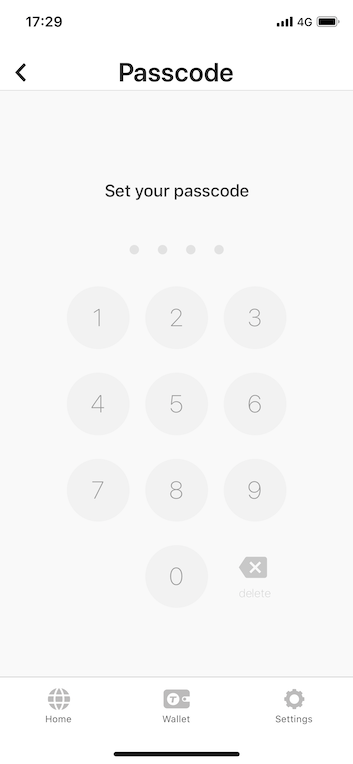
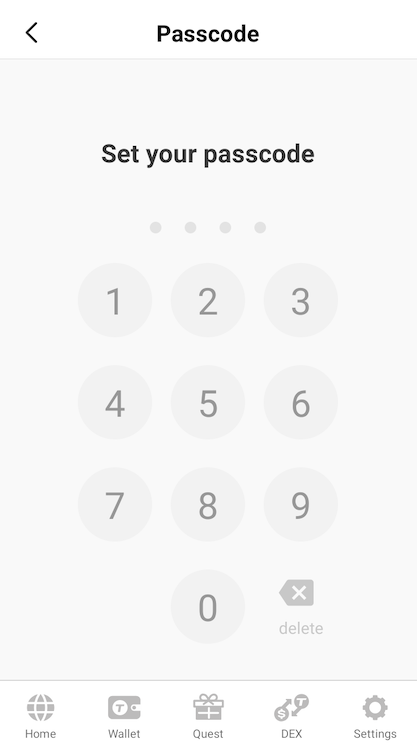
Update all ThunderCore Hub Photos on the Tutorials and also Upload Quest Tutorial

diff --git a/docs-en/get-wallet.md b/docs-en/get-wallet.md
@@ -22,11 +22,15 @@ Check out [ThunderCore Hub](https://www.thundercore.com/thundercore-hub/) on Thu
 
 2. Then you will see the Home tab. You can enter the DApp or website URL in the search bar.
 
-![alt-text](assets/img/new_hub_en/hubbit_en.PNG)
+![alt-text](assets/img/new_hub_en/hubbit_en.jpg)
 
-3. Click the Wallet tab, then you will see the Wallet page. This page will display the balance of your Thunder Token (TT) or TT20 tokens and all the transactions you make. Also, you can `Send` or `Receive` your TT  and `buy TT` via this page.
+3. Click the Wallet tab, then you will see the Wallet page. This page will display the balance of your Thunder Token (TT) or TT20 tokens and all the transactions you make. 
 
-![alt-text](assets/img/new_hub_en/wallet_en.jpg)
+![alt-text](assets/img/new_hub_en/hubbit_wallet_en.jpg)
+
+Also, you can `Send` or `Receive` your TT  and `buy TT` via this page.
+
+![alt-text](assets/img/new_hub_en/wallet_en.PNG)
 
 4. You can check out announcement, change your wallet language or set up the passcode on the Settings page.
 
@@ -52,7 +56,7 @@ Click `Send` to proceed if it is all correct.
 
 To receive token, click the `Receive` button then you will see as below:
 
-![alt-text](assets/img/new_hub_en/wallet_en.jpg)
+![alt-text](assets/img/new_hub_en/wallet_en.PNG)
 
 You can set an amount if you want to receive a specific amount from another address.
 

diff --git a/docs-en/quest.md b/docs-en/quest.md
@@ -1,0 +1,28 @@
+---
+id: quest
+title: Quest Tutorial
+---
+## 1. How to Get Started?
+Choose a quest that you would like to start with and click "Play" to begin. Complete each quest by following the instructions of each quest card.
+
+![quest-image](assets/img/quest/Quest_Tips_01.png)
+
+## 2. Claim Rewards
+After you complete a quest, click "Claim" to get the corresponding rewards.
+
+![quest-image](assets/img/quest/Quest_Tips_02.png)
+
+## 3. Time-Limited Quests
+Some of the quests are time-limited. Be aware!
+
+![quest-image](assets/img/quest/Quest_Tips_03.png)
+
+## 4. Completed / Expired Quests
+Quests that you have already claimed rewards or that have expired will be moved to the bottom of the page.
+
+![quest-image](assets/img/quest/Quest_Tips_04.png)
+
+## 5. Checking your Rewards
+All the rewards that you have claimed from the quests will be reflected in your ThunderCore Hub wallet. You can check the total amount under "My Rewards".
+
+![quest-image](assets/img/quest/Quest_Tips_05.png)

diff --git a/docs-cn/get-wallet.md b/docs-cn/get-wallet.md
@@ -25,7 +25,7 @@ ThunderCore Hub 是一款安全且易于使用的加密钱包，具有完整的 
 
 3. 点击钱包分页，然后您会看到钱包页面，此页面将显示您的 Thunder Token（TT）余额和您所做过的所有交易。同时，您可以透过这个页面 `发送` 、 `接收` 或 `获取 TT`。
 
-![alt-text](assets/img/new_hub_sc/wallet_sc.jpg)
+![alt-text](assets/img/new_hub_sc/wallet_sc.PNG)
 
 4. 您可以在设置页面查看公告，切换钱包语言或设置密码。
 
@@ -51,7 +51,7 @@ ThunderCore Hub 是一款安全且易于使用的加密钱包，具有完整的 
 
 要接收代币，请单击 `接收` 按钮，然后您将看到如下所示：
 
-![alt-text](assets/img/new_hub_sc/wallet_sc.jpg)
+![alt-text](assets/img/new_hub_sc/wallet_sc.PNG)
 
 如果您想让其他地址收到特定金额，可以自己设置金额。
 

diff --git a/docs-cn/faqs/passcode.md b/docs-cn/faqs/passcode.md
@@ -30,7 +30,7 @@ title: 在 TT 站设置您的密码
 
 2. 输入您的密码，密码将被取消
 
-![img](assets/img/passcode_cn/passcode_cn16.PNG)
+![img](assets/img/passcode_cn/passcode_cn6.PNG)
 
 
 ## 如果您忘记密码
